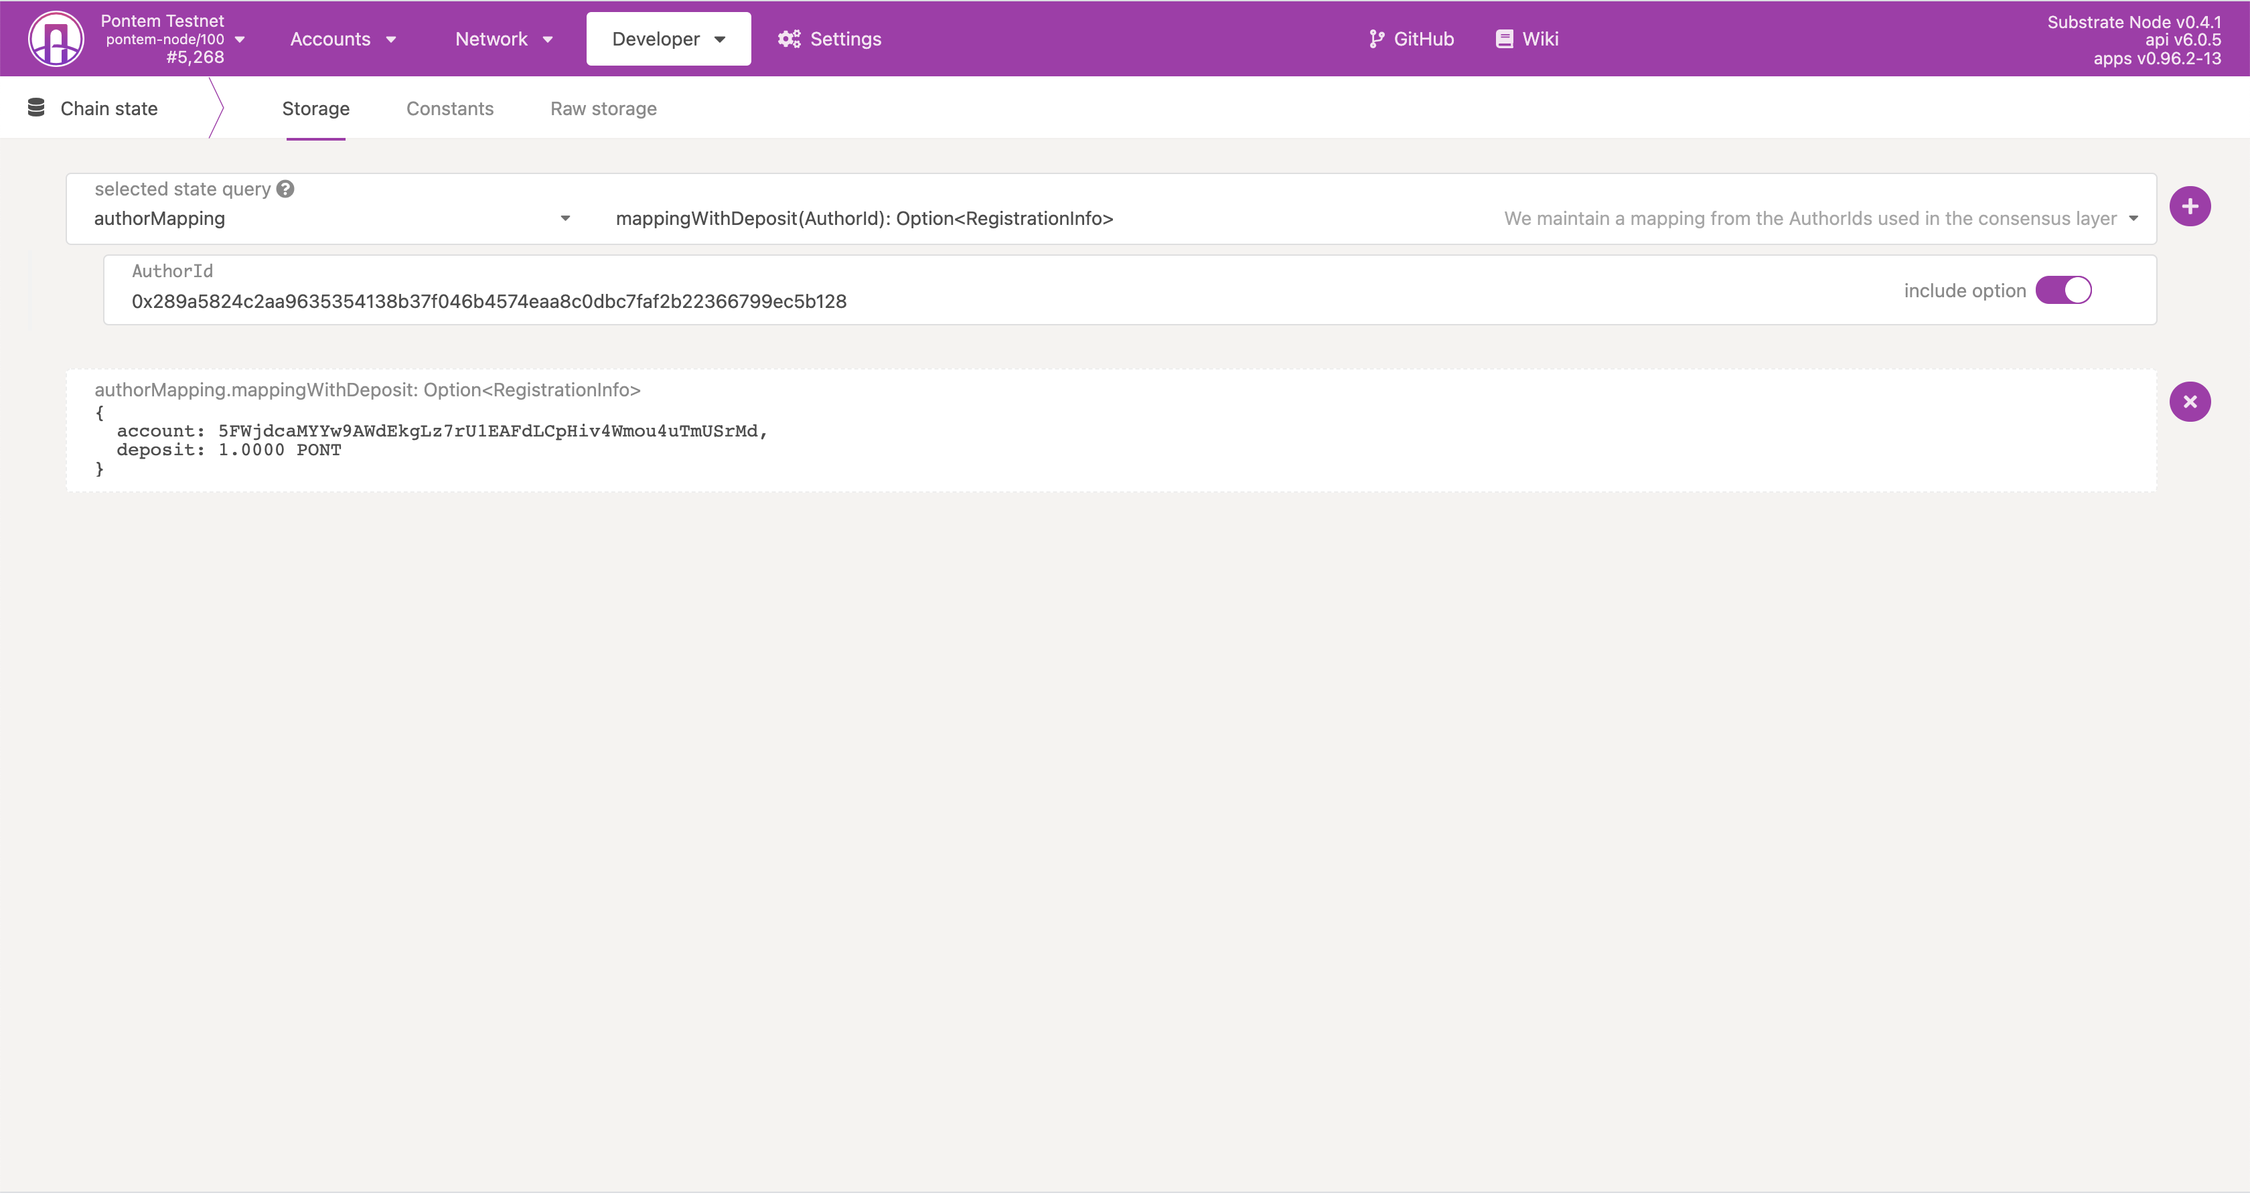
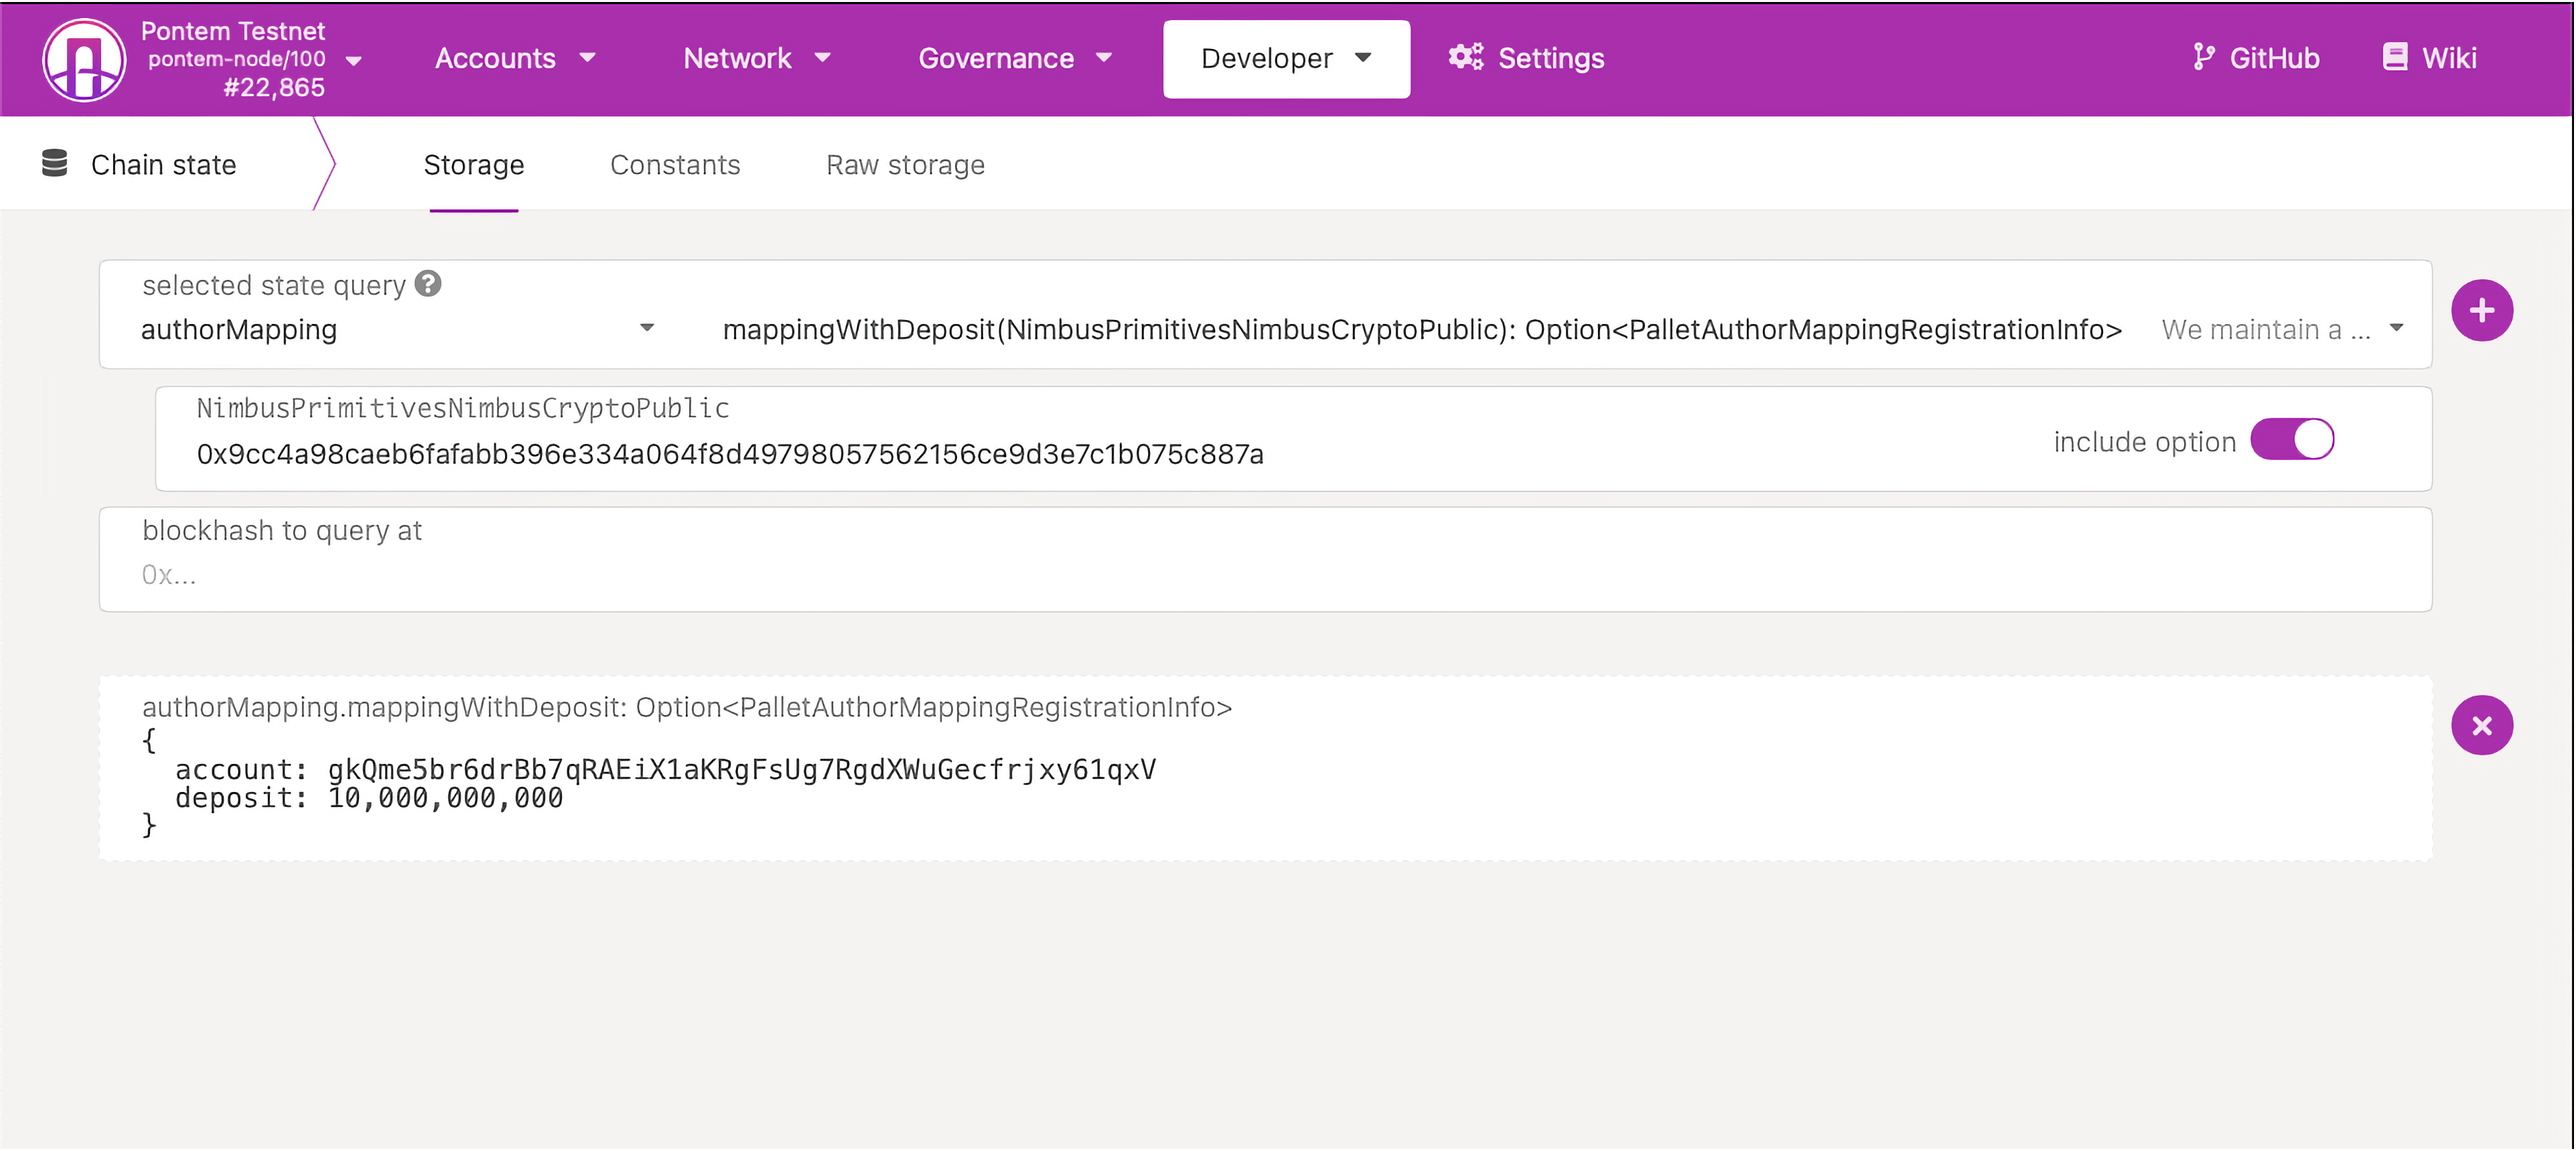
fix in collator doc

diff --git a/staking/collator.md b/staking/collator.md
@@ -10,7 +10,7 @@ Before continuing, please check that you completed all these steps before creati
 * Read the introduction to [Pontem staking](./README.md).
 * You have an account on Pontem network that contains at least +101 PONT tokens to create collator and pay network fees:
   * Create an account using [UI](../getting_started/ui.md#account-creation) or use [CLI](../getting_started/cli.md#account-creation).
-  * Use [FAUCET](https://t.me/pontem_faucet_bot) to get free testnet tokens.
+  * Use [FAUCET](https://t.me/pontem_faucet_bot) to get free testnet tokens (you can use it once every 24 hours).
 * Synchronized [bootstrap](https://github.com/pontem-network/bootstrap) node. Read [docs](https://github.com/pontem-network/bootstrap) in the repository to update your own node.
 * Collator Nimbus mnemonic phrase key (you create this when initializing your bootstrap node).
 
@@ -63,9 +63,11 @@ Let's check that the author mapped correctly:
 
 1. Navigate to [Chain State](https://polkadot.js.org/apps/?rpc=wss%3A%2F%2Ftestnet.pontem.network%2Fws#/chainstate)
 2. Choose `authorMapping` pallet under 'selected state query'.
-3. Choose `mappingWithDeposit(AuthorId)`
+3. Choose `mappingWithDeposit(NimbusPrimitivesNimbusCryptoPublic):Option<PalletAuthorMappingRegistrationInfo>`
 4. Put your public key in `AuthorId` field.
 5. Make call.
+
+***NOTE:*** You will see a deposit amount of 10,000,000,000. This is normal and still just 1 PONT
 
 ![Check Mapping](/assets/check_author_mapping.png "Check Mapping")
 
@@ -91,11 +93,14 @@ Create your collator candidate:
 1. Navigate to [extrinsics](https://polkadot.js.org/apps/?rpc=wss://testnet.pontem.network/ws#/extrinsics).
 2. Choose `parachainStaking` pallet.
 3. Choose `joinCandidates(bond, candidate_count)` function.
-4. Put amount to bond in PONT tokens (at least 100 PONT, but we recommend to put at least 1000 PONT).
+4. Put amount to bond in the `bond` field. For example 11000000000000 is 1100 PONT (we recommend to put at least 1100 PONT).
+
+**NOTE:** Do not forget about 10 decimals! You need to add ten zeros to the amount. For example, to put `1100 PONT` - enter `110000000000000000`
+
 5. For `candidate_count` use value you copied in the previous step.
 6. Send transaction from your account.
  
-**IMPORTANT:** To become a collator needs at least 100 PONT coins, yet to become an active collator (produce blocks), you need at least 1000 PONT staked for your collator. You can stake it yourself or ask nominators to stake for you.
+**IMPORTANT:** To become an active collator (produce blocks), you need at least 1000 PONT staked for your collator. You can stake it yourself or ask nominators to stake for you.
 
 ![Join Candidatess](/assets/join_candidates.png "Join Candidates")
 
@@ -105,7 +110,26 @@ Once your collator is among the top positions you will become active and start g
 
 ## Self Stake
 
-You can self-stake more for your collator. In [extrinsics](https://polkadot.js.org/apps/?rpc=wss://testnet.pontem.network/ws#/extrinsics) use the `parachainStaking` pallet and `candidateBondMore` method. You can get your staked coins back using `candidateBondLess` method.
+You can self-stake more or less for your collator.
+### Bond More
+
+1. Navigate to [extrinsics](https://polkadot.js.org/apps/?rpc=wss://testnet.pontem.network/ws#/extrinsics).
+2. Choose `parachainStaking` pallet.
+3. Choose `candidateBondMore(more)` function.
+4. Specify the additional amount to be bonded in the `more` field (do not forget about 10 decimals!).
+5. Submit the transaction.
+
+*You can get your staked coins back using `candidateBondLess` method.*
+
+![Bond More](/assets/bond_more.png "Bond More")
+
+### Bond less
+2. Choose `parachainStaking` pallet.
+3. Choose `candidateBondLess(less)` function.
+4. Specify the amount by which you want to decrease your bond in the `less` field (do not forget about 10 decimals!).
+5. Submit the transaction.
+
+![Bond Less](/assets/bond_less.png "Bond Less")
 
 ## Go Offline
 
